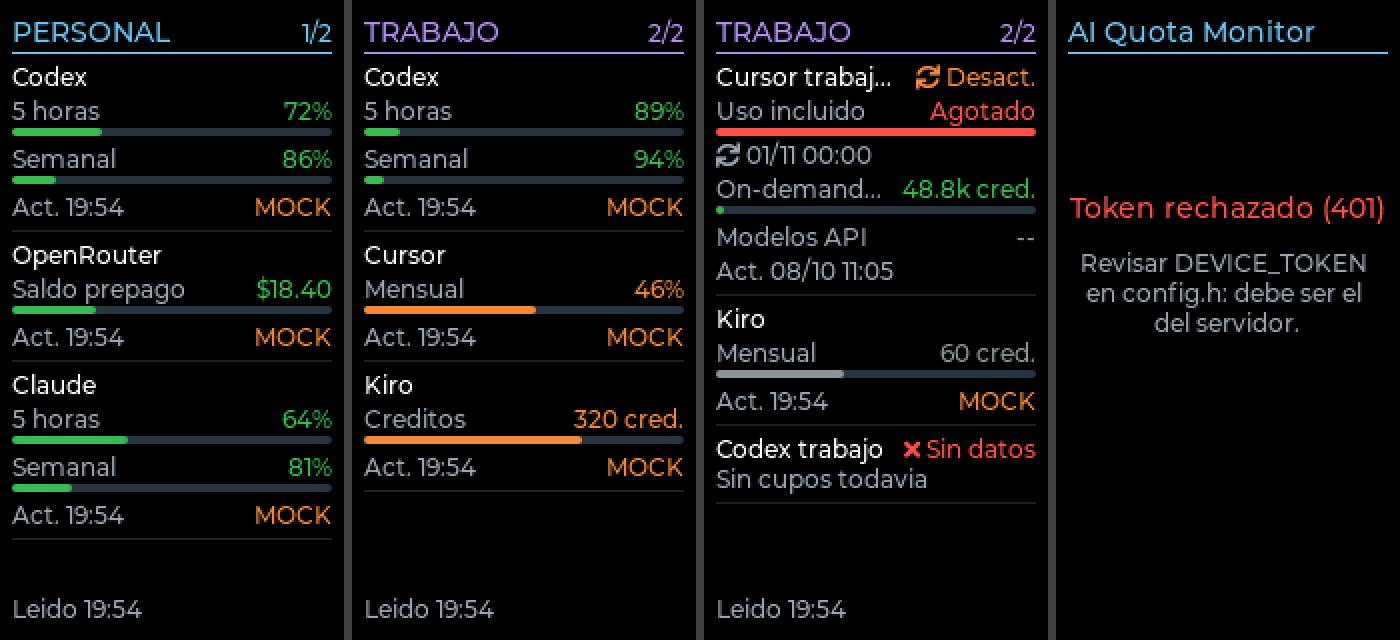
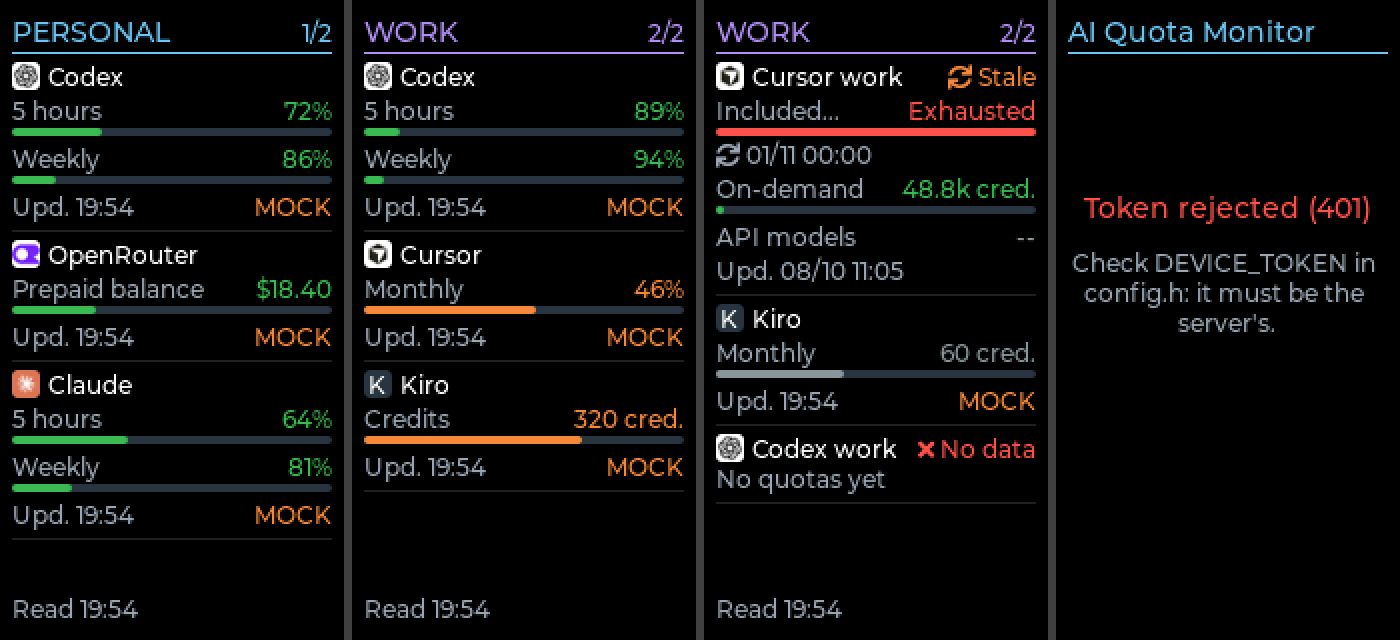
feat: update firmware privew image

diff --git a/server/internal/httpapi/panel_test.go b/server/internal/httpapi/panel_test.go
@@ -44,7 +44,7 @@ func newPanel(t *testing.T) *panelTest {
 			{ID: "collected", Name: "Collected", Provider: "kiro", Scope: "work", Source: "collector"},
 		},
 		Store: store, DeviceToken: "device", CollectorToken: "collector",
-		Username: "alejo", PasswordHash: testHash, Sessions: sessions, Secrets: vault, Web: web.Handler(),
+		Username: "admin", PasswordHash: testHash, Sessions: sessions, Secrets: vault, Web: web.Handler(),
 	}
 	return &panelTest{t: t, api: api, h: api.Handler(), dir: dir}
 }
@@ -69,7 +69,7 @@ func (p *panelTest) want(code int, method, path, bearer, body string) map[string
 }
 func (p *panelTest) login() (access, refresh string) {
 	p.t.Helper()
-	out := p.want(200, "POST", "/auth/login", "", `{"username":"alejo","password":"test-password-123"}`)
+	out := p.want(200, "POST", "/auth/login", "", `{"username":"admin","password":"test-password-123"}`)
 	access, _ = out["accessToken"].(string)
 	refresh, _ = out["refreshToken"].(string)
 	if access == "" || refresh == "" || access == refresh || out["tokenType"] != "Bearer" || out["expiresIn"] != float64(900) {
@@ -80,7 +80,7 @@ func (p *panelTest) login() (access, refresh string) {
 
 func TestPanelLoginAndRouteProtection(t *testing.T) {
 	p := newPanel(t)
-	p.want(401, "POST", "/auth/login", "", `{"username":"alejo","password":"wrong"}`)
+	p.want(401, "POST", "/auth/login", "", `{"username":"admin","password":"wrong"}`)
 	p.want(401, "POST", "/auth/login", "", `{"username":"other","password":"test-password-123"}`)
 	p.want(400, "POST", "/auth/login", "", `not json`)
 	access, refresh := p.login()
@@ -123,7 +123,7 @@ func TestPanelRefreshRotationAndLogout(t *testing.T) {
 	if e != nil {
 		t.Fatal(e)
 	}
-	restarted := &panelTest{t: t, api: &API{Username: "alejo", PasswordHash: testHash, Sessions: sessions}, dir: p.dir}
+	restarted := &panelTest{t: t, api: &API{Username: "admin", PasswordHash: testHash, Sessions: sessions}, dir: p.dir}
 	restarted.h = restarted.api.Handler()
 	restarted.want(200, "GET", "/accounts", access2, "")
 
@@ -153,9 +153,9 @@ func TestPanelRefreshRotationAndLogout(t *testing.T) {
 func TestPanelLoginRateLimit(t *testing.T) {
 	p := newPanel(t)
 	for i := 0; i < 5; i++ {
-		p.want(401, "POST", "/auth/login", "", `{"username":"alejo","password":"wrong"}`)
+		p.want(401, "POST", "/auth/login", "", `{"username":"admin","password":"wrong"}`)
 	}
-	w, _ := p.call("POST", "/auth/login", "", `{"username":"alejo","password":"test-password-123"}`)
+	w, _ := p.call("POST", "/auth/login", "", `{"username":"admin","password":"test-password-123"}`)
 	if w.Code != 429 || w.Header().Get("Retry-After") == "" {
 		t.Fatalf("expected 429 with Retry-After, got %d", w.Code)
 	}
